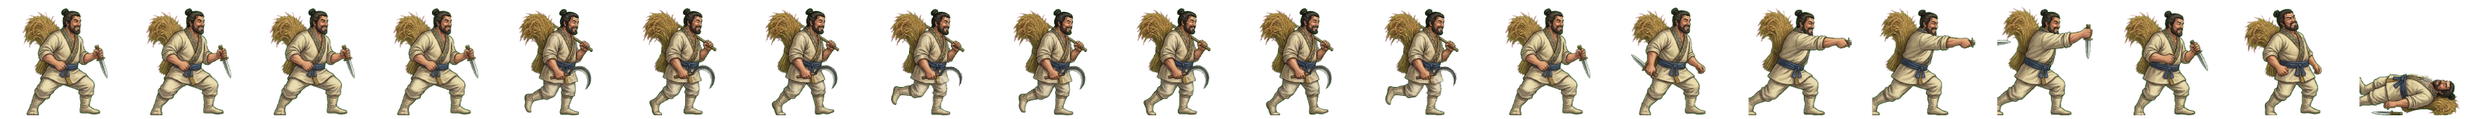
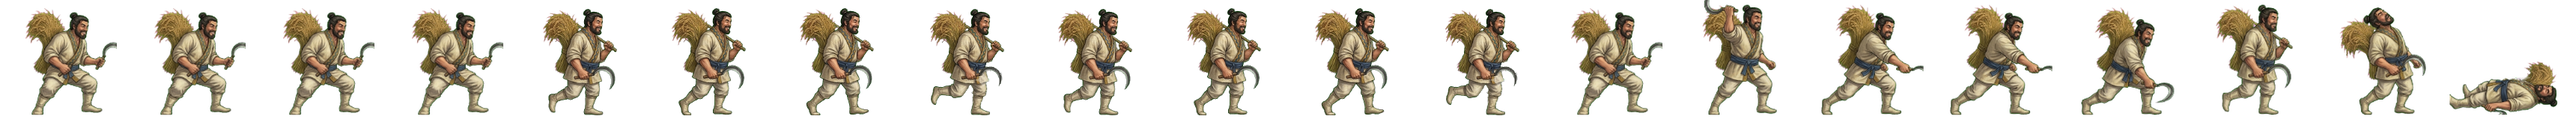
전투 띠 새로: 가락 여도간 동작 다시 · 단검 대신 낫 (형 11-08) (형 11-08)
Claude-Session: https://claude.ai/code/session_01TRiuNAG8xSjdmjCFpc8Rd5

diff --git a/src/ui/realm/battle-strikes.ts b/src/ui/realm/battle-strikes.ts
@@ -143,7 +143,7 @@ const CONTACT: Readonly<Record<string, [number, number, number]>> = {
   'gen-haebi': [14, 0.87, 0.53], 'gen-heo': [14, 0.94, 0.46], 'gen-hyeokgeose': [14, 0.83, 0.94],
   'gen-hyeopbo': [14, .93, .21], 'gen-malgalgi': [14, 0.88, 0.28], 'gen-mari': [14, .98, .47],
   'gen-oi': [14, .98, .48], 'gen-onjo': [14, 0.83, 0.93], 'gen-soebi': [14, 0.80, 0.95],
-  'gen-soseono': [14, 0.92, 0.31], 'gen-maryeo': [14, 0.91, 0.79], 'gen-horselord': [14, 0.89, 0.25], 'gen-olddaeso': [14, 0.93, 0.91], 'gen-maro': [14, 0.97, 0.49], 'gen-gwaeyu': [14, 0.98, 0.71], 'gen-daemusin': [14, 0.91, 0.38], 'gen-tahae': [14, 0.91, 0.74], 'gen-ocheongan': [14, 0.82, 0.49], 'gen-yusugan': [14, 0.96, 0.31], 'gen-odogan': [14, 0.93, 0.28], 'gen-pidogan': [14, 0.94, 0.75], 'gen-yeodogan': [14, 0.98, 0.36], 'gen-adogan': [14, 0.95, 0.41], 'gen-musoe': [14, 0.94, 0.39], 'gen-suro': [14, 0.82, 0.53], 'gen-waechief': [14, 0.95, 0.68], 'gen-hojin': [14, 0.97, 0.64], 'gen-jita': [14, 0.94, 0.34], 'gen-guryema': [14, 0.89, 0.28], 'gen-jibaekho': [14, 0.97, 0.33], 'gen-sobeol': [14, 0.95, 0.33], 'gen-alpyeong': [14, 0.95, 0.54], 'gen-hogong': [14, 0.98, 0.27], 'gen-geumbawi': [14, 0.91, 0.92], 'gen-keundol': [14, 0.90, 0.68], 'gen-jinha': [14, 0.76, 0.93], 'gen-duman': [14, 0.97, 0.39], 'gen-gomok': [14, 0.94, 0.57], 'gen-hneoul': [14, 0.92, 0.27], 'gen-tneoul': [14, 0.84, 0.57], 'gen-sdallae': [14, 0.89, 0.29], 'gen-yucheongan': [14, 0.97, 0.64], 'gen-sincheongan': [14, 0.91, 0.71], 'gen-singwigan': [14, 0.91, 0.27], 'gen-mdallae': [14, 0.98, 0.30], 'gen-mulbeom': [14, 0.97, 0.36], 'gen-beomi': [14, 0.88, 0.43], 'gen-danbi': [14, 0.90, 0.30], 'gen-mulsae': [14, 0.87, 0.36], 'gen-darae': [14, 0.89, 0.29], 'gen-mir': [14, 0.98, 0.35], 'gen-wan': [14, 0.94, 0.30], 'gen-gom': [14, 0.94, 0.74], 'gen-sagong': [14, 0.79, 0.96], 'gen-halla': [14, 0.86, 0.46], 'gen-areum': [14, 0.86, 0.65], 'gen-dokmudeom': [14, 0.92, 0.29], 'gen-beom': [14, 0.98, 0.28], 'gen-baram': [14, 0.96, 0.24], 'gen-goeun': [14, 0.95, 0.66], 'gen-byeol': [14, 0.76, 0.96], 'gen-sinneoul': [14, 0.94, 0.33], 'gen-haesol': [14, 0.94, 0.34], 'gen-odi': [14, 0.91, 0.39], 'gen-irang': [14, 0.86, 0.30], 'gen-dalli': [14, 0.89, 0.32], 'gen-bakdal': [14, 0.94, 0.27], 'gen-noeul': [14, 0.88, 0.27], 'gen-maehwa': [14, 0.90, 0.31], 'gen-gaon': [14, 0.98, 0.41], 'gen-eomni': [14, 0.96, 0.42], 'gen-nuri': [14, 0.98, 0.34], 'gen-bira': [14, 0.88, 0.33], 'gen-gureum': [14, 0.98, 0.42],
+  'gen-soseono': [14, 0.92, 0.31], 'gen-maryeo': [14, 0.91, 0.79], 'gen-horselord': [14, 0.89, 0.25], 'gen-olddaeso': [14, 0.93, 0.91], 'gen-maro': [14, 0.97, 0.49], 'gen-gwaeyu': [14, 0.98, 0.71], 'gen-daemusin': [14, 0.91, 0.38], 'gen-tahae': [14, 0.91, 0.74], 'gen-ocheongan': [14, 0.82, 0.49], 'gen-yusugan': [14, 0.96, 0.31], 'gen-odogan': [14, 0.93, 0.28], 'gen-pidogan': [14, 0.94, 0.75], 'gen-yeodogan': [14, 0.93, 0.57], 'gen-adogan': [14, 0.95, 0.41], 'gen-musoe': [14, 0.94, 0.39], 'gen-suro': [14, 0.82, 0.53], 'gen-waechief': [14, 0.95, 0.68], 'gen-hojin': [14, 0.97, 0.64], 'gen-jita': [14, 0.94, 0.34], 'gen-guryema': [14, 0.89, 0.28], 'gen-jibaekho': [14, 0.97, 0.33], 'gen-sobeol': [14, 0.95, 0.33], 'gen-alpyeong': [14, 0.95, 0.54], 'gen-hogong': [14, 0.98, 0.27], 'gen-geumbawi': [14, 0.91, 0.92], 'gen-keundol': [14, 0.90, 0.68], 'gen-jinha': [14, 0.76, 0.93], 'gen-duman': [14, 0.97, 0.39], 'gen-gomok': [14, 0.94, 0.57], 'gen-hneoul': [14, 0.92, 0.27], 'gen-tneoul': [14, 0.84, 0.57], 'gen-sdallae': [14, 0.89, 0.29], 'gen-yucheongan': [14, 0.97, 0.64], 'gen-sincheongan': [14, 0.91, 0.71], 'gen-singwigan': [14, 0.91, 0.27], 'gen-mdallae': [14, 0.98, 0.30], 'gen-mulbeom': [14, 0.97, 0.36], 'gen-beomi': [14, 0.88, 0.43], 'gen-danbi': [14, 0.90, 0.30], 'gen-mulsae': [14, 0.87, 0.36], 'gen-darae': [14, 0.89, 0.29], 'gen-mir': [14, 0.98, 0.35], 'gen-wan': [14, 0.94, 0.30], 'gen-gom': [14, 0.94, 0.74], 'gen-sagong': [14, 0.79, 0.96], 'gen-halla': [14, 0.86, 0.46], 'gen-areum': [14, 0.86, 0.65], 'gen-dokmudeom': [14, 0.92, 0.29], 'gen-beom': [14, 0.98, 0.28], 'gen-baram': [14, 0.96, 0.24], 'gen-goeun': [14, 0.95, 0.66], 'gen-byeol': [14, 0.76, 0.96], 'gen-sinneoul': [14, 0.94, 0.33], 'gen-haesol': [14, 0.94, 0.34], 'gen-odi': [14, 0.91, 0.39], 'gen-irang': [14, 0.86, 0.30], 'gen-dalli': [14, 0.89, 0.32], 'gen-bakdal': [14, 0.94, 0.27], 'gen-noeul': [14, 0.88, 0.27], 'gen-maehwa': [14, 0.90, 0.31], 'gen-gaon': [14, 0.98, 0.41], 'gen-eomni': [14, 0.96, 0.42], 'gen-nuri': [14, 0.98, 0.34], 'gen-bira': [14, 0.88, 0.33], 'gen-gureum': [14, 0.98, 0.42],
   'gen-biryu': [14, 0.90, 0.35], 'gen-geumha': [14, 0.94, 0.61], 'gen-geota': [14, 0.86, 0.47], 'gen-soebo': [14, 0.87, 0.57],
   'gen-gaennae': [14, 249 / 264, 47 / 160],
   'gen-budeul': [14, 266 / 280, 51 / 160],

diff --git a/src/realm/data/art.ts b/src/realm/data/art.ts
@@ -558,7 +558,7 @@ export const GEN_ANIM: Readonly<Partial<Record<string, { ar: number; body: numbe
   suro: { ar: 153 / 160, body: 0.894 }, // 11-08 초상대로 다시 (형: 「투구 쓰고 원본과 다르다」 · 제미나이 걷기 4×2 + 동작 4×2 → 20컷 · assets_src/realm/gemini/generals2) · 11-08 처음 · 가락 수로왕 · 흰 금빛 비단옷·붉은 머리띠·곧은 칼
   musoe: { ar: 147 / 160, body: 0.894 }, // 11-08 초상대로 다시 (형: 「투구 쓰고 원본과 다르다」 · 제미나이 걷기 4×2 + 동작 4×2 → 20컷 · assets_src/realm/gemini/generals2) · 11-08 처음 · 가락 쇠둑 지기 무쇠 · 가죽 앞치마·쇠망치
   adogan: { ar: 139 / 160, body: 0.894 }, // 11-08 초상대로 다시 (형: 「투구 쓰고 원본과 다르다」 · 제미나이 걷기 4×2 + 동작 4×2 → 20컷 · assets_src/realm/gemini/generals2) · 11-08 처음 · 가락 아도간 · 흰 수염·지그재그 깃 옷·짧은 지팡이
-  yeodogan: { ar: 165 / 160, body: 0.900 }, // 11-08 초상대로 다시 (형: 「투구 쓰고 원본과 다르다」 · 제미나이 걷기 4×2 + 동작 4×2 → 20컷 · assets_src/realm/gemini/generals2) · 11-08 처음 · 가락 여도간 · 볏단 멘 농부 우두머리·낫
+  yeodogan: { ar: 172 / 160, body: 0.900 }, // 11-08 초상대로 다시 (형: 「투구 쓰고 원본과 다르다」 · 제미나이 걷기 4×2 + 동작 4×2 → 20컷 · assets_src/realm/gemini/generals2) · 11-08 처음 · 가락 여도간 동작 다시 · 단검 대신 낫 (형 11-08)
   pidogan: { ar: 148 / 160, body: 0.900 }, // 11-08 초상대로 다시 (형: 「투구 쓰고 원본과 다르다」 · 제미나이 걷기 4×2 + 동작 4×2 → 20컷 · assets_src/realm/gemini/generals2) · 11-08 처음 · 가락 피도간 · 털 조끼·발톱 목걸이·손도끼
   odogan: { ar: 153 / 160, body: 0.900 }, // 11-08 초상대로 다시 (형: 「투구 쓰고 원본과 다르다」 · 제미나이 걷기 4×2 + 동작 4×2 → 20컷 · assets_src/realm/gemini/generals2) · 11-08 처음 · 가락 오도간 · 지그재그 깃 옷·작은 저울·짧은 칼
   yusugan: { ar: 162 / 160, body: 0.894 }, // 11-08 초상대로 다시 (형: 「투구 쓰고 원본과 다르다」 · 제미나이 걷기 4×2 + 동작 4×2 → 20컷 · assets_src/realm/gemini/generals2) · 11-08 처음 · 가락 유수간 · 고기 바구니 멘 어부·작살창
